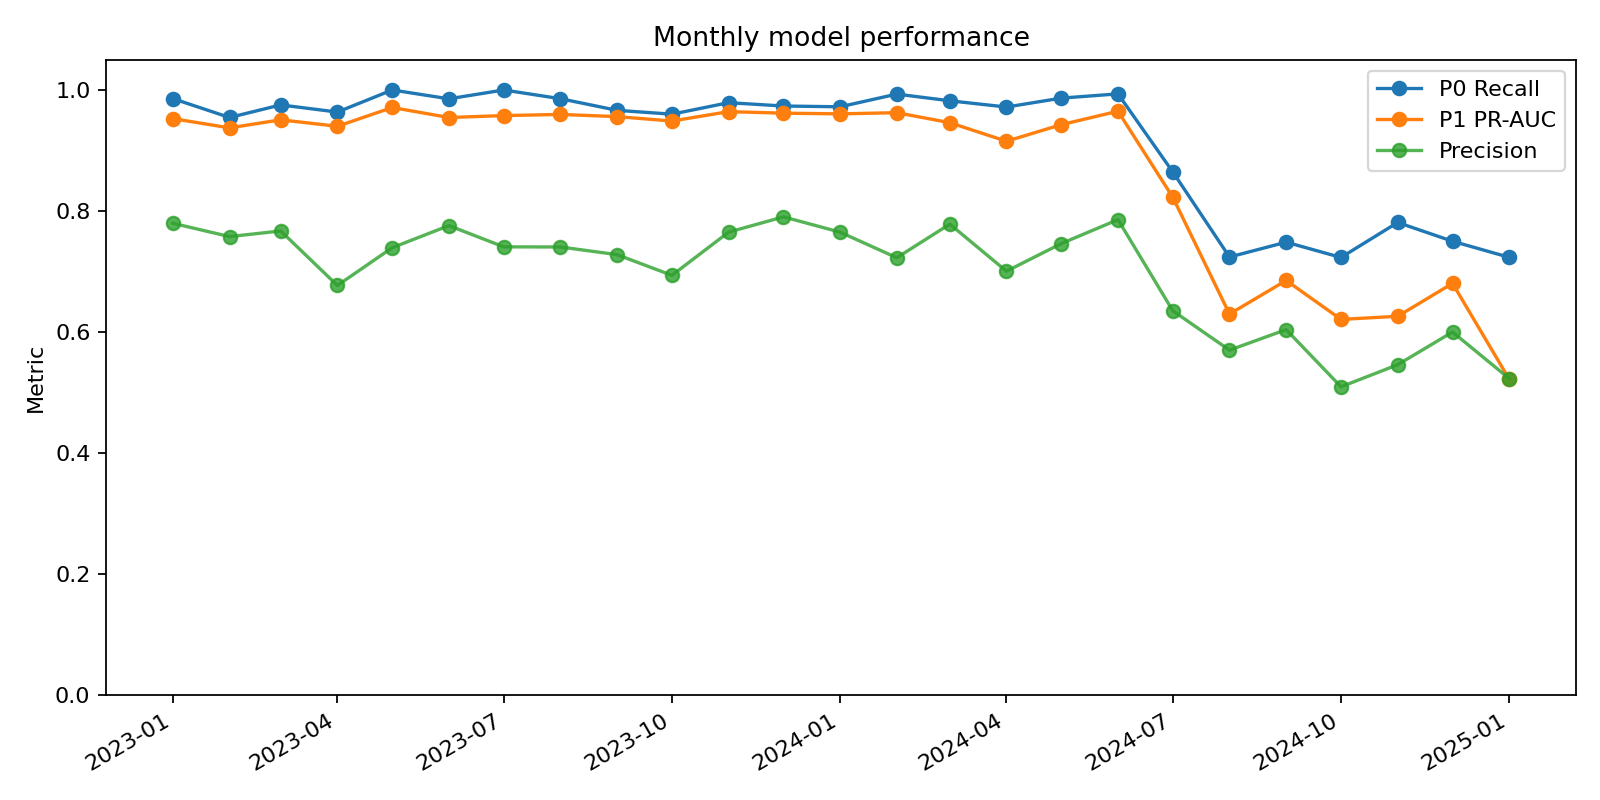
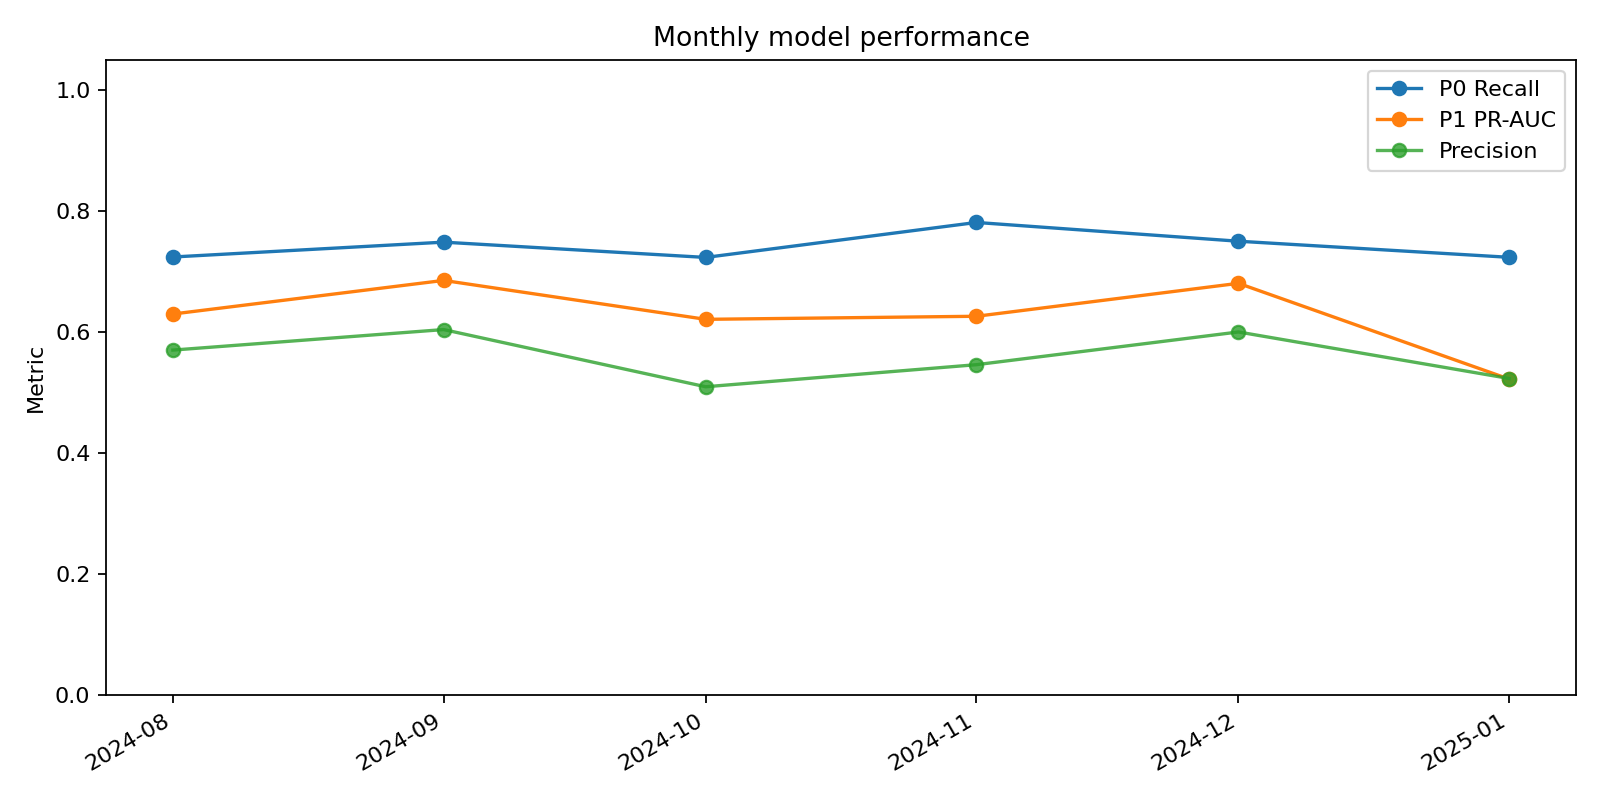
Govern champion promotion and honest monitoring metrics

diff --git a/utils/model_lifecycle.py b/utils/model_lifecycle.py
@@ -1,3 +1,4 @@
+import hashlib
 import json
 import math
 import pickle
@@ -58,6 +59,26 @@ RAW_NUMERIC_COLUMNS = {
     "Loan_to_Income_Ratio",
     *{f"fe_{i}" for i in range(1, 21)},
 }
+
+
+def training_signature(project_dir):
+    """Fingerprint model code and training inputs for controlled refresh detection."""
+    project_dir = Path(project_dir)
+    digest = hashlib.sha256()
+    digest.update(Path(__file__).resolve().read_bytes())
+    for root in [
+        project_dir / "datamart" / "gold" / "model_feature_store",
+        project_dir / "datamart" / "gold" / "label_store",
+    ]:
+        files = (
+            item
+            for item in root.rglob("*")
+            if item.is_file() and not item.name.endswith(".crc")
+        )
+        for path in sorted(files):
+            digest.update(str(path.relative_to(project_dir)).encode("utf-8"))
+            digest.update(path.read_bytes())
+    return digest.hexdigest()
 
 
 def _read_parquet(path):
@@ -327,21 +348,67 @@ def train_and_select_model(project_dir):
     versioned_path = model_bank / f"{champion_name}_{model_version}.pkl"
     with versioned_path.open("wb") as file:
         pickle.dump(artefact, file)
-    with (model_bank / "champion_model.pkl").open("wb") as file:
-        pickle.dump(artefact, file)
+
+    champion_path = model_bank / "champion_model.pkl"
+    incumbent = None
+    if champion_path.exists():
+        with champion_path.open("rb") as file:
+            incumbent = pickle.load(file)
+
+    challenger_rank = (
+        float(champion_validation["recall"]) >= 0.70,
+        float(champion_validation["pr_auc"]),
+        float(champion_validation["recall"]),
+        float(champion_validation["precision"]),
+    )
+    incumbent_rank = None
+    if incumbent:
+        incumbent_metrics = incumbent["performance_baseline"]
+        incumbent_rank = (
+            float(incumbent_metrics["recall"]) >= 0.70,
+            float(incumbent_metrics["pr_auc"]),
+            float(incumbent_metrics["recall"]),
+            float(incumbent_metrics["precision"]),
+        )
+
+    promoted = incumbent is None or challenger_rank > incumbent_rank
+    if promoted:
+        with champion_path.open("wb") as file:
+            pickle.dump(artefact, file)
+        deployed = artefact
+        promotion_reason = (
+            "Initial champion created."
+            if incumbent is None
+            else "Challenger passed P0 and ranked above the incumbent on validation metrics."
+        )
+    else:
+        deployed = incumbent
+        promotion_reason = (
+            "Challenger retained as a versioned artefact; incumbent remained superior "
+            "under the P0 then P1 promotion rule."
+        )
 
     registry = {
-        "champion_model": champion_name,
-        "model_version": model_version,
-        "artefact_path": versioned_path.name,
-        "decision_threshold": float(champion_threshold),
+        "champion_model": deployed["model_name"],
+        "model_version": deployed["model_version"],
+        "artefact_path": (
+            versioned_path.name
+            if promoted
+            else f"{deployed['model_name']}_{deployed['model_version']}.pkl"
+        ),
+        "decision_threshold": float(deployed["decision_threshold"]),
+        "latest_challenger_model": champion_name,
+        "latest_challenger_version": model_version,
+        "latest_challenger_promoted": promoted,
+        "promotion_reason": promotion_reason,
+        "training_signature": training_signature(project_dir),
         "p0_metric": "recall",
         "p1_metric": "pr_auc",
         "p2_metric": "precision",
         "p3_metric": "roc_auc",
         "selection_rule": (
             "Pass the validation recall floor of 0.70, then maximise PR-AUC; "
-            "use recall and precision as tie-breakers."
+            "use recall and precision as tie-breakers. OOT is reporting-only."
         ),
     }
     (model_bank / "model_registry.json").write_text(
@@ -349,8 +416,11 @@ def train_and_select_model(project_dir):
         encoding="utf-8",
     )
     _write_parquet(evaluation, gold_root / "model_evaluation")
-    print(f"Champion model: {champion_name} ({model_version})")
-    return artefact
+    print(
+        f"Champion model: {deployed['model_name']} ({deployed['model_version']}); "
+        f"challenger promoted={promoted}"
+    )
+    return deployed
 
 
 def load_champion(project_dir):
@@ -418,6 +488,7 @@ def calculate_monthly_monitoring(project_dir, snapshot_date=None):
     feature_drift_rows = []
     for month, month_predictions in predictions.groupby("snapshot_date"):
         month_labelled = labelled[labelled["snapshot_date"] == month].dropna(subset=["label"])
+        data_split = str(month_predictions["data_split"].iloc[0])
         probability = month_predictions["default_probability"].to_numpy()
         score_actual = _distribution(probability, artefact["score_baseline"]["edges"])
         psi = _stability_index(artefact["score_baseline"]["distribution"], score_actual)
@@ -429,9 +500,15 @@ def calculate_monthly_monitoring(project_dir, snapshot_date=None):
             "recall": float("nan"),
             "f1_score": float("nan"),
         }
-        observation_status = "labels_pending"
-        performance_drift_status = "labels_pending"
-        if not month_labelled.empty and month_labelled["label"].nunique() >= 2:
+        observation_status = "in_sample_reference" if data_split == "train" else "labels_pending"
+        performance_drift_status = observation_status
+        # Training months are useful PSI/CSI baselines, but their in-sample
+        # performance is not presented as evidence of generalisation.
+        if (
+            data_split != "train"
+            and not month_labelled.empty
+            and month_labelled["label"].nunique() >= 2
+        ):
             metrics = calculate_metrics(
                 month_labelled["label"].astype(int),
                 month_labelled["default_probability"],
@@ -452,7 +529,7 @@ def calculate_monthly_monitoring(project_dir, snapshot_date=None):
         data_drift_status = _drift_status(psi)
         combined_status = (
             data_drift_status
-            if performance_drift_status == "labels_pending"
+            if performance_drift_status in {"labels_pending", "in_sample_reference"}
             else _worst_status(data_drift_status, performance_drift_status)
         )
 
@@ -461,6 +538,7 @@ def calculate_monthly_monitoring(project_dir, snapshot_date=None):
                 "snapshot_date": month,
                 "model_name": artefact["model_name"],
                 "model_version": artefact["model_version"],
+                "data_split": data_split,
                 "observation_status": observation_status,
                 "record_count": len(month_predictions),
                 "labelled_record_count": len(month_labelled),

diff --git a/scripts/ensure_champion.py b/scripts/ensure_champion.py
@@ -1,12 +1,21 @@
+import json
 from pathlib import Path
 
-from utils.model_lifecycle import train_and_select_model
+from utils.model_lifecycle import train_and_select_model, training_signature
 
 
 if __name__ == "__main__":
     project_dir = Path(__file__).resolve().parents[1]
     champion = project_dir / "model_bank" / "champion_model.pkl"
-    if champion.exists():
+    registry_path = project_dir / "model_bank" / "model_registry.json"
+    registry = (
+        json.loads(registry_path.read_text(encoding="utf-8"))
+        if registry_path.exists()
+        else {}
+    )
+    current_signature = training_signature(project_dir)
+    if champion.exists() and registry.get("training_signature") == current_signature:
         print(f"Champion model already exists: {champion}")
     else:
+        print("Model code or training data changed; evaluating fresh challengers.")
         train_and_select_model(project_dir)

diff --git a/dashboard/server.py b/dashboard/server.py
@@ -45,7 +45,7 @@ def _records(df):
     for column in output.columns:
         if "date" in column:
             output[column] = pd.to_datetime(output[column], errors="coerce").dt.strftime("%Y-%m-%d")
-    output = output.where(pd.notnull(output), None)
+    output = output.astype(object).where(pd.notnull(output), None)
     return output.to_dict(orient="records")
 
 
@@ -107,7 +107,7 @@ def dashboard_payload(params):
         "prediction_count": prediction_count or int(latest.get("record_count", 0)),
         "p0_name": latest.get("p0_metric_name", "recall"),
         "p0_value": _clean_number(latest.get("p0_metric_value")),
-        "p1_name": latest.get("p1_metric_name", "roc_auc"),
+        "p1_name": latest.get("p1_metric_name", "pr_auc"),
         "p1_value": _clean_number(latest.get("p1_metric_value")),
         "psi": _clean_number(latest.get("psi")),
         "predicted_default_rate": _clean_number(latest.get("predicted_default_rate")),
@@ -120,6 +120,7 @@ def dashboard_payload(params):
 
     performance_columns = [
         "snapshot_date",
+        "data_split",
         "p0_metric_value",
         "p1_metric_value",
         "precision",

diff --git a/scripts/run_monitoring.py b/scripts/run_monitoring.py
@@ -6,6 +6,6 @@ from utils.model_lifecycle import calculate_monthly_monitoring
 
 if __name__ == "__main__":
     parser = argparse.ArgumentParser()
-    parser.add_argument("--snapshotdate", required=True)
+    parser.add_argument("--snapshotdate", default=None)
     args = parser.parse_args()
     calculate_monthly_monitoring(Path(__file__).resolve().parents[1], args.snapshotdate)

diff --git a/docs/PRESENTATION_CONTENT.md b/docs/PRESENTATION_CONTENT.md
@@ -26,6 +26,27 @@ Histogram Gradient Boosting is the champion because it passed the P0 recall
 floor and achieved the highest validation PR-AUC. XGBoost performed strongly on
 OOT, but OOT was deliberately not used for champion selection.
 
+The earlier dashboard view showing recall close to 1.00 came from months inside
+the training window. Those values were in-sample and therefore not valid
+evidence of generalisation. The monitoring output now suppresses train-period
+P0/P1 and reports performance only for validation, test and OOT months:
+validation recall is 0.736, test recall is 0.753 and OOT recall is 0.723.
+
+## Automated but governed champion promotion
+
+1. Airflow fingerprints the model code and Gold training inputs.
+2. Unchanged inputs reuse the current champion, avoiding needless retraining
+   during monthly backfills.
+3. Changed code or data triggers all four challengers to be trained and
+   evaluated again.
+4. A challenger is promoted only if it passes P0 recall and outranks the
+   incumbent on validation PR-AUC, with recall and precision as tie-breakers.
+5. The versioned artefact and decision are recorded in `model_registry.json`;
+   inference always retrieves the governed `champion_model.pkl` pointer.
+
+Simply adding a model file does not deploy it. Promotion occurs only through
+the evaluation gate, and OOT results remain reporting-only.
+
 ## Metric hierarchy
 
 | Priority | Metric | Decision role |

diff --git a/README.md b/README.md
@@ -79,4 +79,14 @@ implementation is a separate, simpler dashboard backed by Assignment 2 output.
 
 Performance monitoring is reported only when the future MOB 6 label has
 matured. Drift monitoring can run immediately because it does not require the
-outcome label.
+outcome label. Train-window months remain available as PSI/CSI references, but
+their in-sample P0/P1 values are deliberately suppressed; reported performance
+starts from validation and continues through test and OOT.
+
+Training automatically ranks all candidate models on validation data. A
+challenger must pass P0 recall and outrank the incumbent on P1 PR-AUC before
+`champion_model.pkl` is replaced. The Airflow champion task fingerprints the
+model code and Gold training inputs, so unchanged backfills reuse the current
+champion while updated code or data triggers controlled challenger evaluation.
+Inference never selects an arbitrary file: it loads the governed champion
+pointer and records its model version with every prediction.